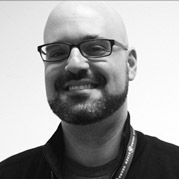
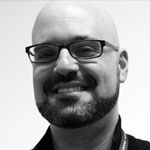
added michelangelo headshot

diff --git a/people/index.html b/people/index.html
@@ -339,6 +339,15 @@ layout: default
         <a href="https://www.github.com/brandonwillard"><i class="ss-octocat"></i></a>
       </div>
     </div>
+    <div class="span2">
+      <img src="/img/people/dagostino.jpg" alt="Michelangelo D'Agostino">
+      <h6>Michelangelo D'Agostino</h6>
+      <p>Former senior analyst for Obama campaign, current data scientist at Braintree</p>
+      <div class="icons">
+        <a href="https://twitter.com/MichelangeloDA"><i class="ss-twitter"></i></a>
+        <a href="https://github.com/mdagost"><i class="ss-octocat"></i></a>
+      </div>
+    </div>
   </div>
 
 

diff --git a/index.html b/index.html
@@ -61,7 +61,9 @@ layout: default
       <hr>
       <br>
       <br>    
-      <img id="datakind" src="/img/partners/datakind.png">
+      <a href="http://www.datakind.org">
+        <img id="datakind" src="/img/partners/datakind.png">
+      </a>
       <br>
     
   </div>

diff --git a/css/site.css b/css/site.css
@@ -10,7 +10,7 @@ body {
 
 /* Space out each section on home and people pages */
 .section {
-	margin-top: 50px;
+	margin-top: 60px;
 }
 
 /* Make <h1> page headings stick out */
